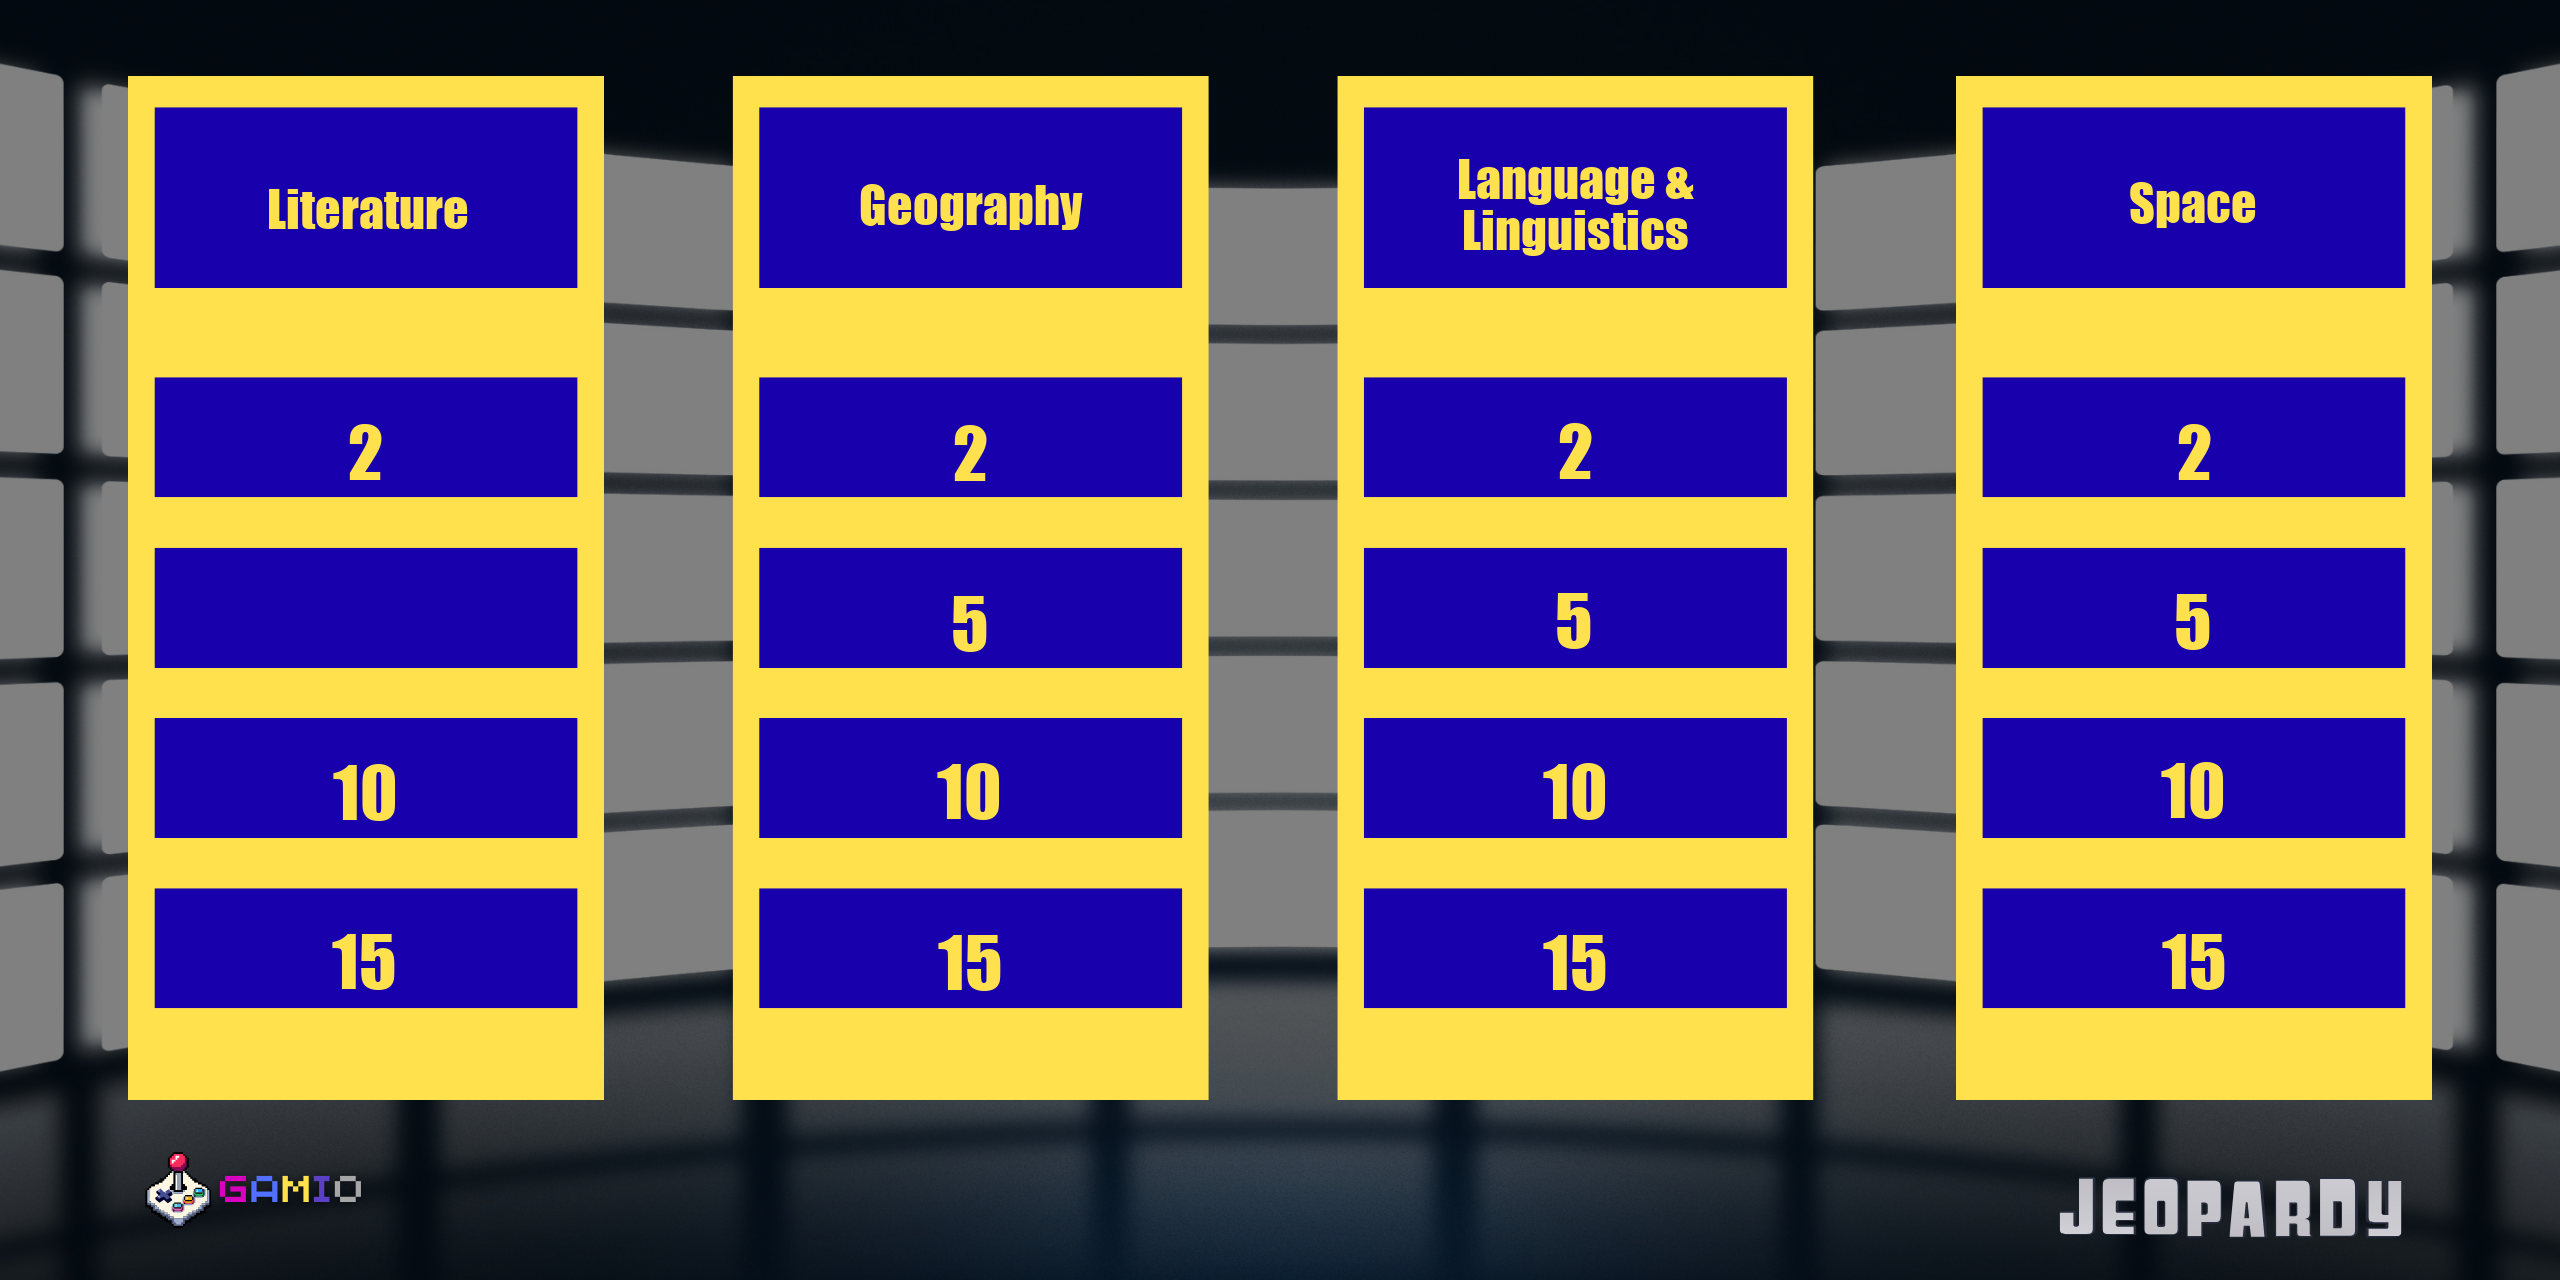
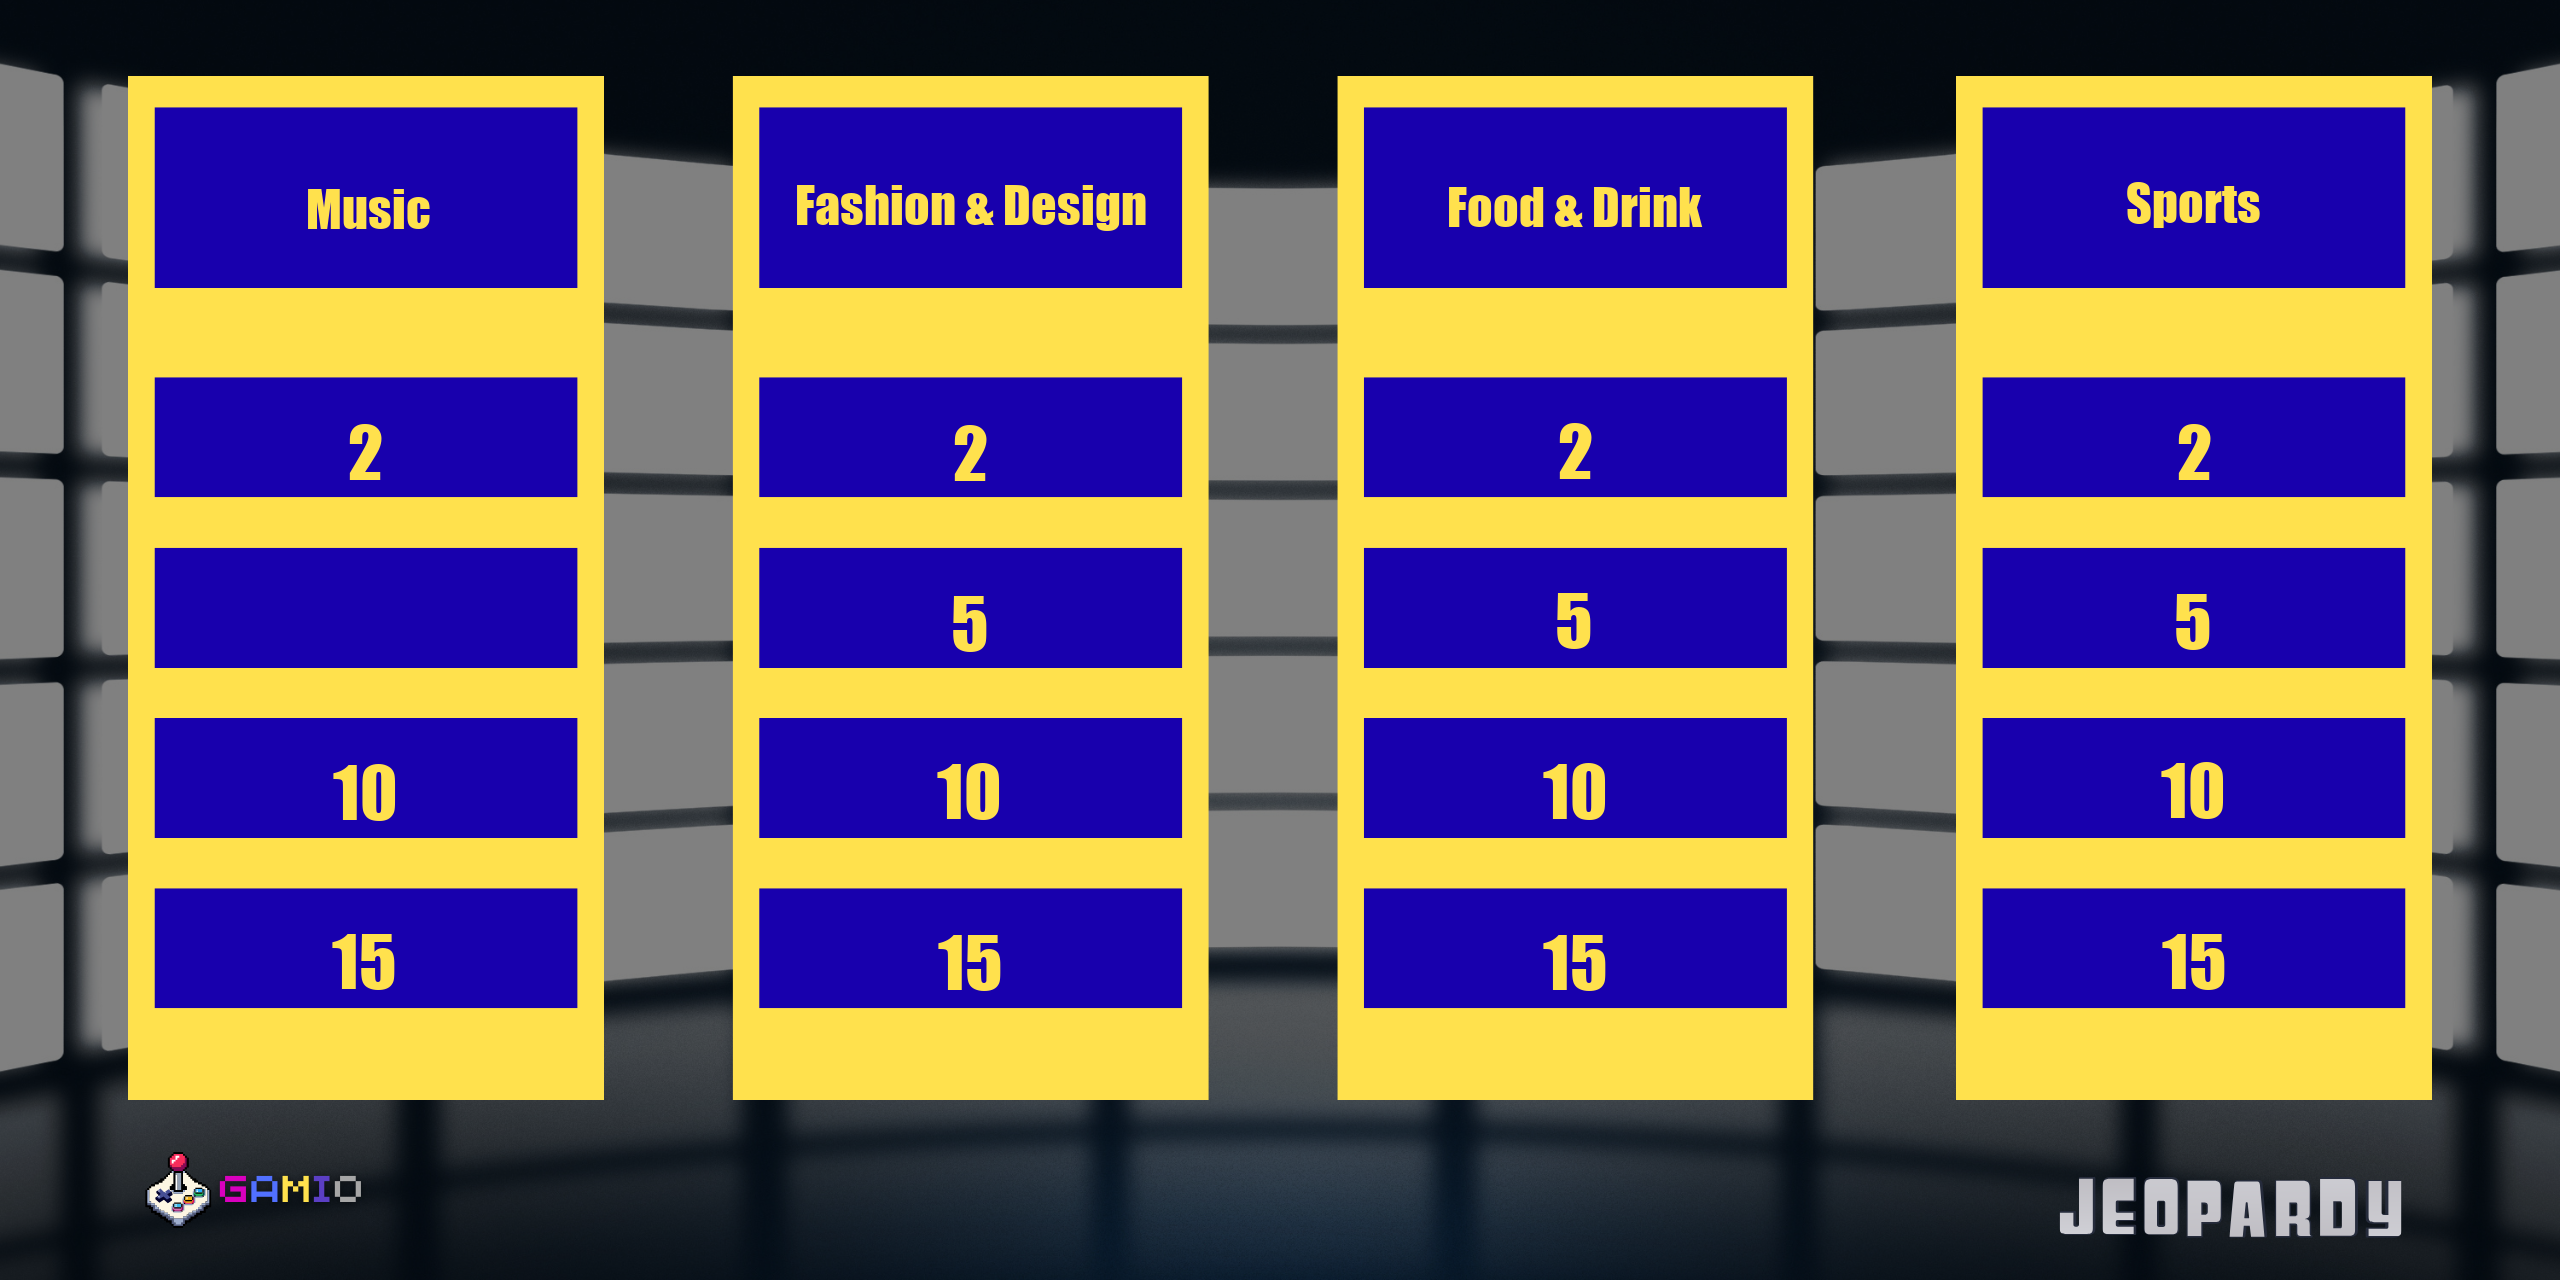
polish jeopardy game

diff --git a/main.py b/main.py
@@ -1013,7 +1013,8 @@ def get_game_instructions(game_code: str) -> str:
         "1": "<blockquote expandable><b>How to Play:</b>\n‣ Rearrange the letters to form a correct word.\n‣ Type your answer and send it in the chat.\n‣ Each correct answer earns you points.\n‣ The player with the highest score wins.</blockquote>",
         "25": "<blockquote expandable><b>How to Play:</b>\n‣ Everyone gets a celebrity assigned to them.\n‣ On your turn, others see who you are, but you don't.\n‣ Ask questions in the group to guess your celebrity.\n‣ Once you know, type the name in the chat.\n‣ Shortest time to guess wins!</blockquote>",
         "26": "<blockquote expandable><b>How to Play:</b>\n‣ Guess the Song Title and Artist from the provided lyrics.\n‣ Use the '▶Next Line' button to reveal more lines if needed.\n‣ Each correct part (Title or Artist) earns you 2 points.\n‣ Guess both to complete the round!</blockquote>",
-        "27": "<blockquote expandable><b>How to Play:</b>\n‣ Read the riddle and type your answer in the chat.\n‣ Each correct answer earns you 1 point.\n‣ First to answer gets the point!\n‣ Player with the most points wins!</blockquote>"
+        "27": "<blockquote expandable><b>How to Play:</b>\n‣ Read the riddle and type your answer in the chat.\n‣ Each correct answer earns you 1 point.\n‣ First to answer gets the point!\n‣ Player with the most points wins!</blockquote>",
+        "28": "<blockquote expandable><b>How to Play:</b>\n‣ A turn is assigned to a player to select a category and points (e.g. Geography for 5).\n‣ A question is sent, and players must click the 🔔 inline button to buzz in.\n‣ The first to buzz in gets 15 seconds to type their answer.\n‣ Answers must end with a question mark (?).\n‣ Correct answers earn points, incorrect answers lock you out from buzzing again.</blockquote>"
     }
     return instructions.get(game_code, "")
 
@@ -1354,6 +1355,14 @@ async def start_game_after_delay(chat_id: int, context: ContextTypes.DEFAULT_TYP
                 f"\n\n<blockquote><b>Mode:</b>\n"
                 f"Rounds: {rounds}</blockquote>"
             )
+        elif session.game_code == "28":
+            session.game.start_game()
+            turn_order_names = [session.game.players.get(pid, "Unknown") for pid in session.game.turn_order]
+            turn_order_str = " ➔ ".join(turn_order_names)
+            mode_text = (
+                f"\n\n<blockquote><b>Turn Order:</b>\n"
+                f"{turn_order_str}</blockquote>"
+            )
 
         await context.bot.send_message(
             chat_id=chat_id,
@@ -1485,9 +1494,10 @@ async def send_jeopardy_board(chat_id: int, context: ContextTypes.DEFAULT_TYPE, 
     active_mention = f'<a href="tg://user?id={active_player_id}">{active_player_name}</a>'
     
     caption = (
-        f"🔔 <b>Jeopardy Clue Board</b>\n\n"
-        f"It is {active_mention}'s turn to choose a category and points!\n"
-        f"Send your choice in this chat like: <code>Geography for 5</code>"
+        f"<b>Jeopardy Board</b>\n\n"
+        f"🔅 It is {active_mention}'s turn \n"
+        f"<blockquote>to choose a category and points!\n"
+        f"Send your choice in this chat like: <code>Geography for 5</code></blockquote>"
     )
     
     # Send photo
@@ -2395,7 +2405,7 @@ async def handle_text_message(update: Update, context: ContextTypes.DEFAULT_TYPE
                 if session.jeopardy_buzzed_user == user.id:
                     # The answer MUST end with a question mark (?)
                     if not text.endswith('?'):
-                        await message.reply_text("⚠ Answers must end with a question mark (?)! Please try again.")
+                        await message.reply_text("❗Answers must end with a question mark (?) and they must be written in question form! Please try again.")
                         return
                         
                     # Process the answer

diff --git a/game-handlers/jeopardy.py b/game-handlers/jeopardy.py
@@ -101,8 +101,12 @@ class JeopardyGame:
         """Initialize the turn order."""
         if not self.players:
             return False
-        random.shuffle(self.turn_order)
-        self.current_turn_index = 0
+        # Only initialize if turn_order is not set or empty
+        if not getattr(self, '_started', False):
+            self.turn_order = list(self.players.keys())
+            random.shuffle(self.turn_order)
+            self.current_turn_index = 0
+            self._started = True
         return True
 
     def get_current_turn_player(self) -> Optional[int]:
@@ -118,10 +122,18 @@ class JeopardyGame:
         
         # Match category name loosely
         matched_category = None
+        # Try exact match first
         for cat in self.categories:
             if cat.lower().strip() == category_query.lower().strip():
                 matched_category = cat
                 break
+                
+        # Try substring match if no exact match
+        if not matched_category:
+            for cat in self.categories:
+                if category_query.lower().strip() in cat.lower():
+                    matched_category = cat
+                    break
         
         if not matched_category:
             return None
